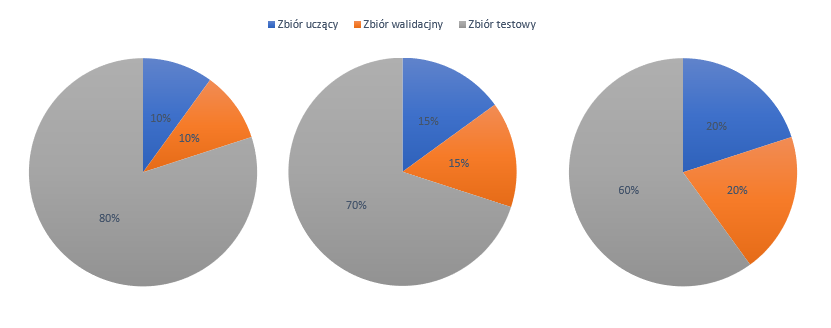
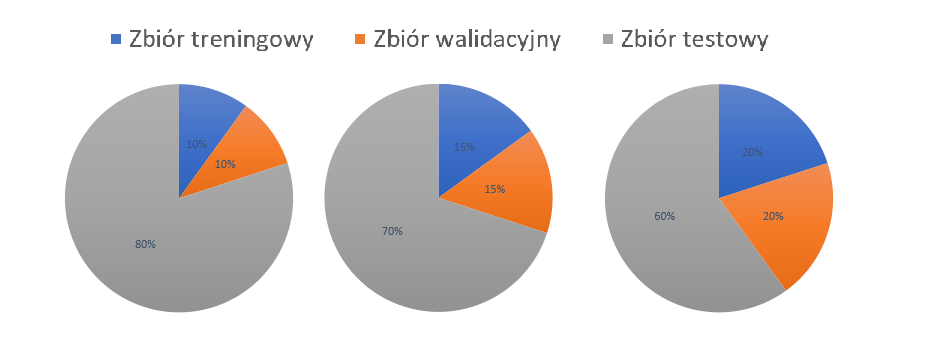
.

diff --git a/thesis/partials/tests.tex b/thesis/partials/tests.tex
@@ -8,8 +8,8 @@ Celem było również przetestowanie modeli na rzeczywistych zdjęciach,
 zawierających wzorce przypominające grafy, bądź rysunkach grafów narysowanych ręcznie.
 
 Stworzone zostały 3 modele:
-- wytrenowany na danych ze stałą liczbą wierchołków
-- wytrenowany na danych ze stałą liczbą wierchołków oraz walidacją krzyżową
+- wytrenowany na danych ze stałą liczbą wierzchołków
+- wytrenowany na danych ze stałą liczbą wierzchołków oraz walidacją krzyżową
 - wytrenowany na danych ze zmienną liczbą wierzchołków
 
 \subsection{Generacja danych}
@@ -78,7 +78,7 @@ oraz współczynnik odpowiadający za zakrzywienie krawędzi na rysunkach.
 \end{lstlisting}
 
 W testach wykorzystane zostały wszystkie wybrane typy grafów.
-Każdy z nich, czyli dana liczba wierchołków i typ grafu, wygenerowany został w liczbie 500 sztuk
+Każdy z nich, czyli dana liczba wierzchołków i typ grafu, wygenerowany został w liczbie 500 sztuk
 oraz ze stałą krzywizną krawędzi, wynoszącą 0,3. % Zastanowić się nad zmianą na losowe rozmieszczenie
 
 \subsection{Dane zewnętrzne}
@@ -321,7 +321,7 @@ W przypadku uczenia modeli z wykorzystaniem grafów pełnych, najczęściej domi
 przez co modele w kolejnych testach klasyfikowały większość testowych grafów rysowanych odręcznie jako właśnie grafy pełne.
 
 Testy z wykorzystaniem stałej liczby wierzchołków grafów okazały się mniej owocne niż testy z rysunkami grafów
-o zmiennej liczbie wierchołków.
+o zmiennej liczbie wierzchołków.
 
 Wystąpiła tendencja do niepoprawnego określania innych grafów, grafami dwudzielnymi, jeśli takie znajdowały się
-w zbiorze danych uczących.
+w zbiorze danych treningowych.

diff --git a/thesis/partials/graphs.tex b/thesis/partials/graphs.tex
@@ -44,18 +44,18 @@ Graf zawierający pętle nazywamy pseudografem.
 \noindent
 \textbf{Definicja \graphDefinitionIndex.}
 \incrementGraphDefinitionIndex
-% Wierchołek izolowany ---------------------------------- to do
+% Wierzchołek izolowany ---------------------------------- to do
 
 \noindent
 \textbf{Definicja \graphDefinitionIndex.}
 \incrementGraphDefinitionIndex
 Graf $G$ taki, że $E(G) = \emptyset$, nazywamy grafem bezkrawędziowym. Jeżeli $|V(G)| = n$, to graf bezkrawędziowy oznaczony symbolem $N_n$.
-Każdy wierchołek grafu bezkrawędziowego jest wierchołkiem izolowanym.
+Każdy wierzchołek grafu bezkrawędziowego jest wierzchołkiem izolowanym.
 
 \noindent
 \textbf{Definicja \graphDefinitionIndex.}
 \incrementGraphDefinitionIndex
-% Wierchołki sąsiednie ---------------------------------- to do
+% Wierzchołki sąsiednie ---------------------------------- to do
 
 \noindent
 \textbf{Definicja \graphDefinitionIndex.}
@@ -66,7 +66,7 @@ Jeżeli $|V(G)| = n$, to graf pełny oznaczamy $K_n$.
 \noindent
 \textbf{Definicja \graphDefinitionIndex.}
 \incrementGraphDefinitionIndex
-Graf G, którego zbiór wierchołków można podzielić na dwa rozłączne, niepuste podzbiory $V_1$ i $V_2$ tak,
+Graf G, którego zbiór wierzchołków można podzielić na dwa rozłączne, niepuste podzbiory $V_1$ i $V_2$ tak,
 że jeżeli $xy \in E(G)$, to $x \in V_1 \vee y \in V_2$ nazywamy grafem dwudzielnym.
 % Sprawdzić znak LUB (usunąć?) ---------------------------------- to do
 
